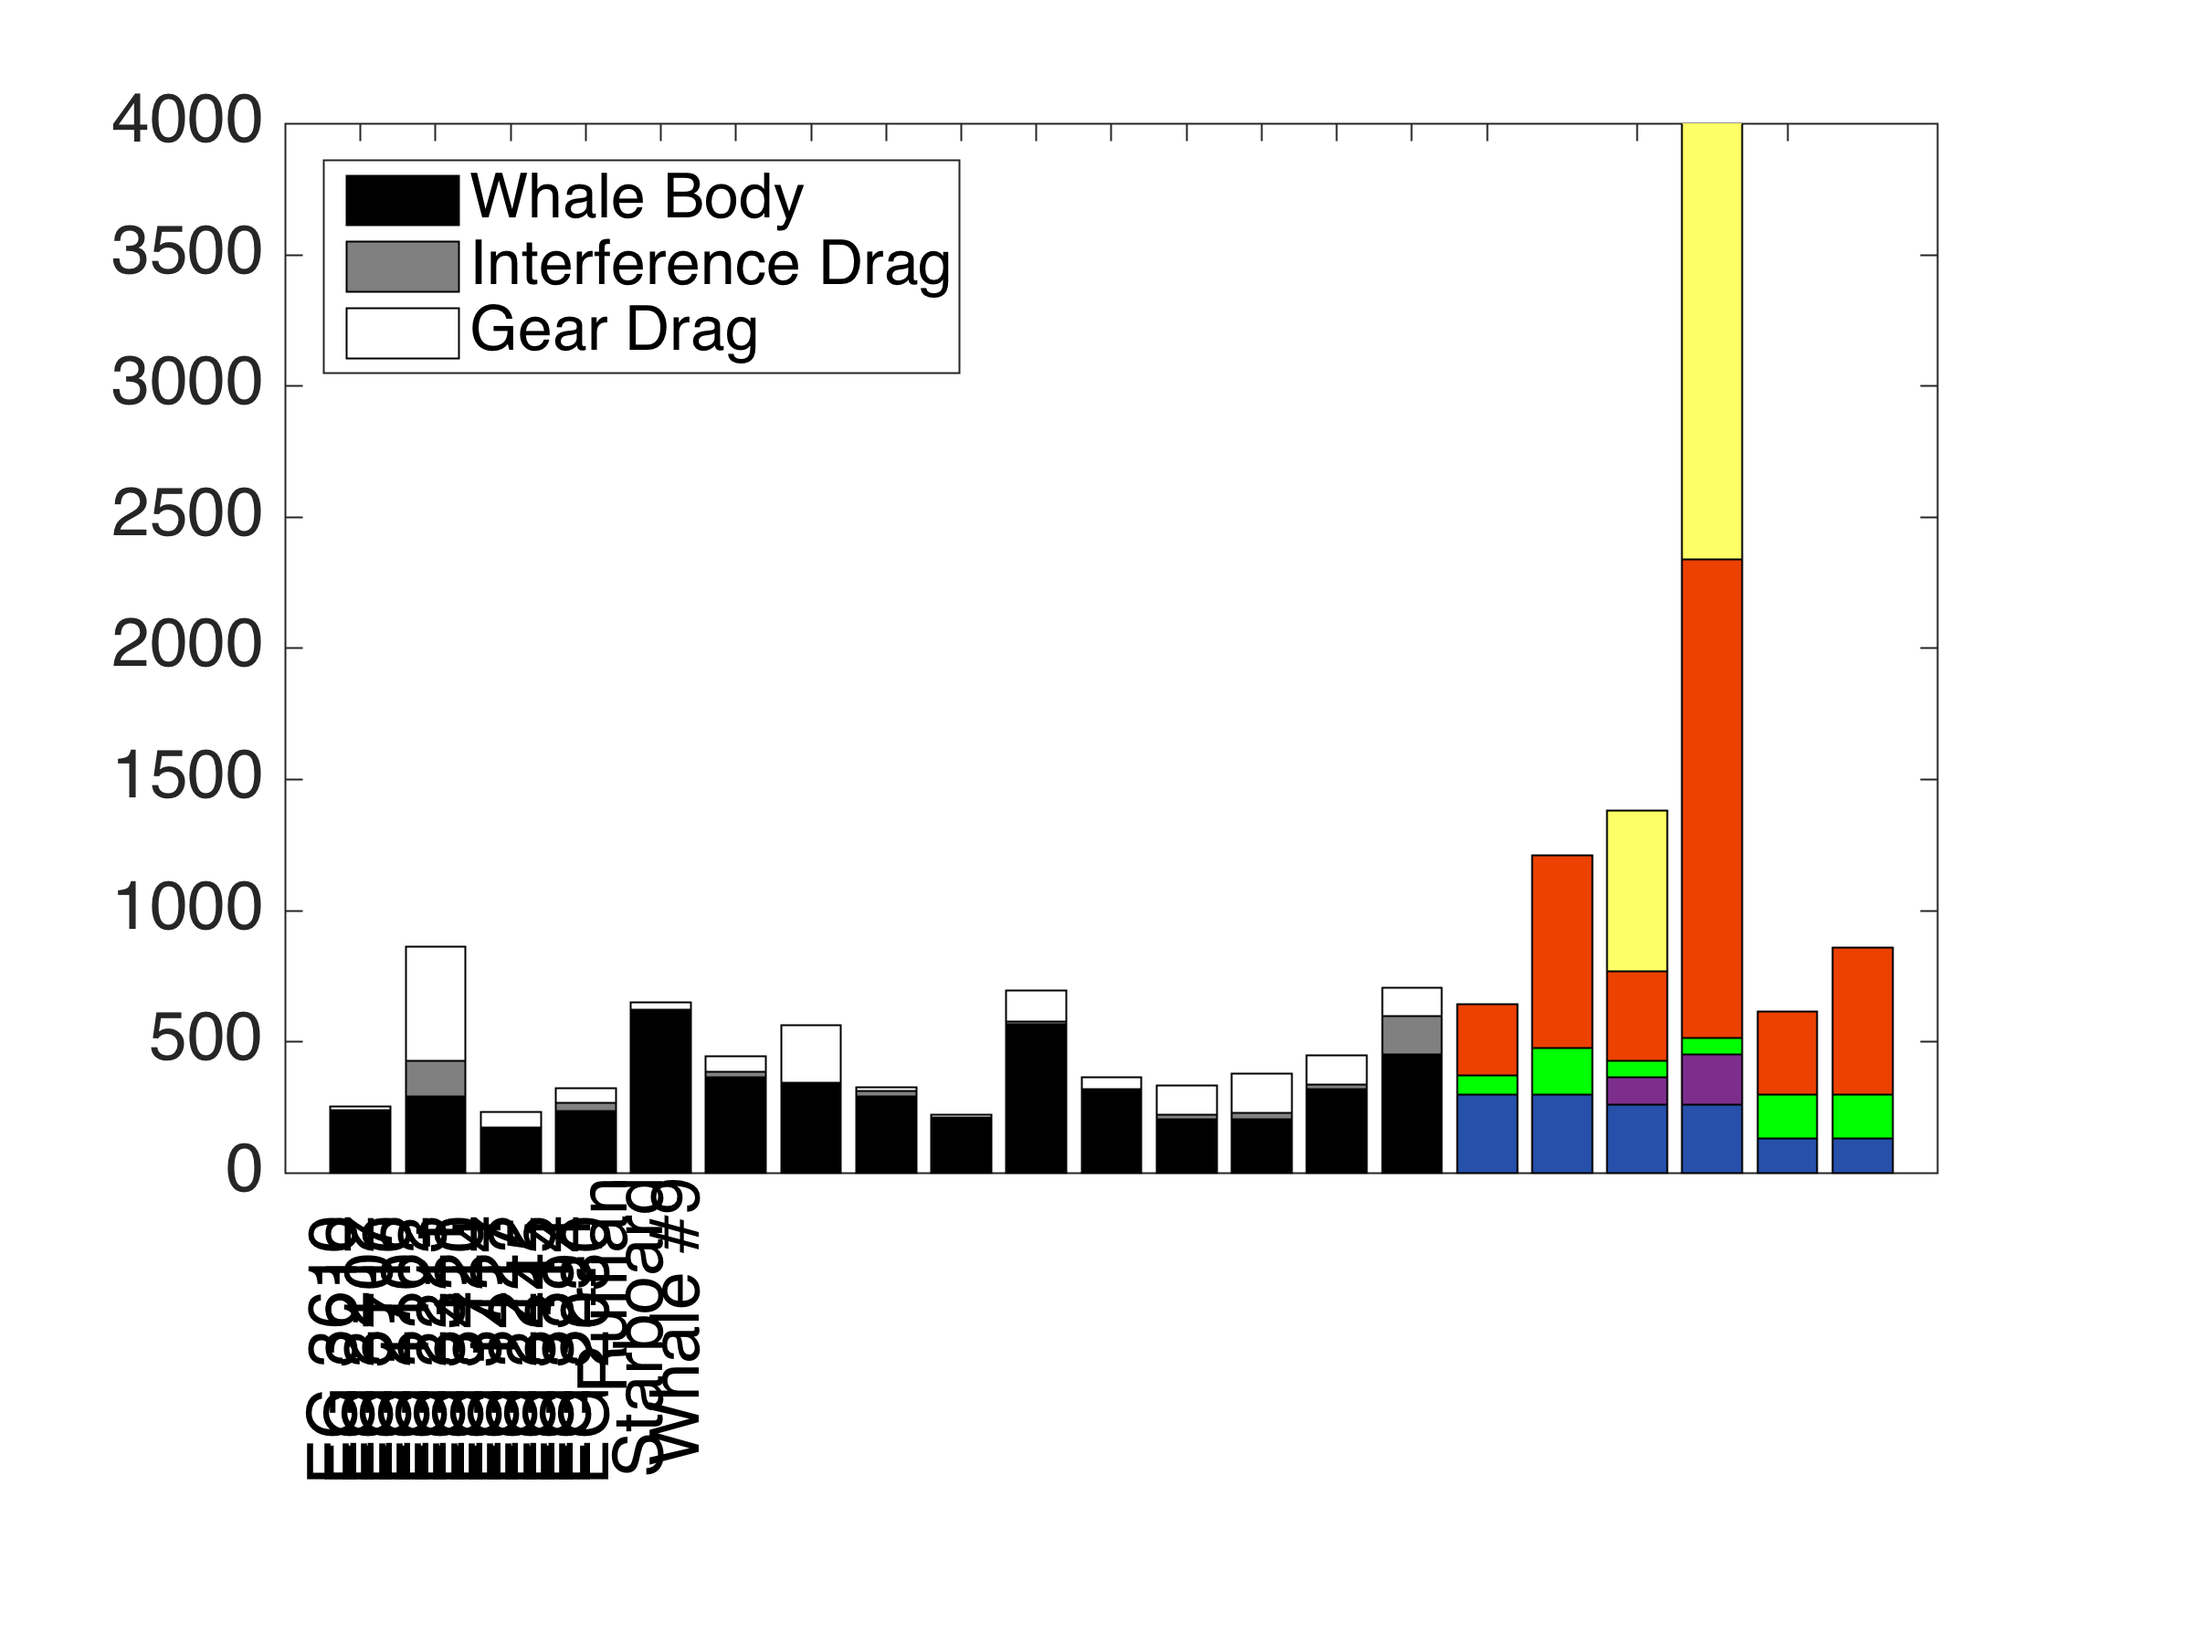
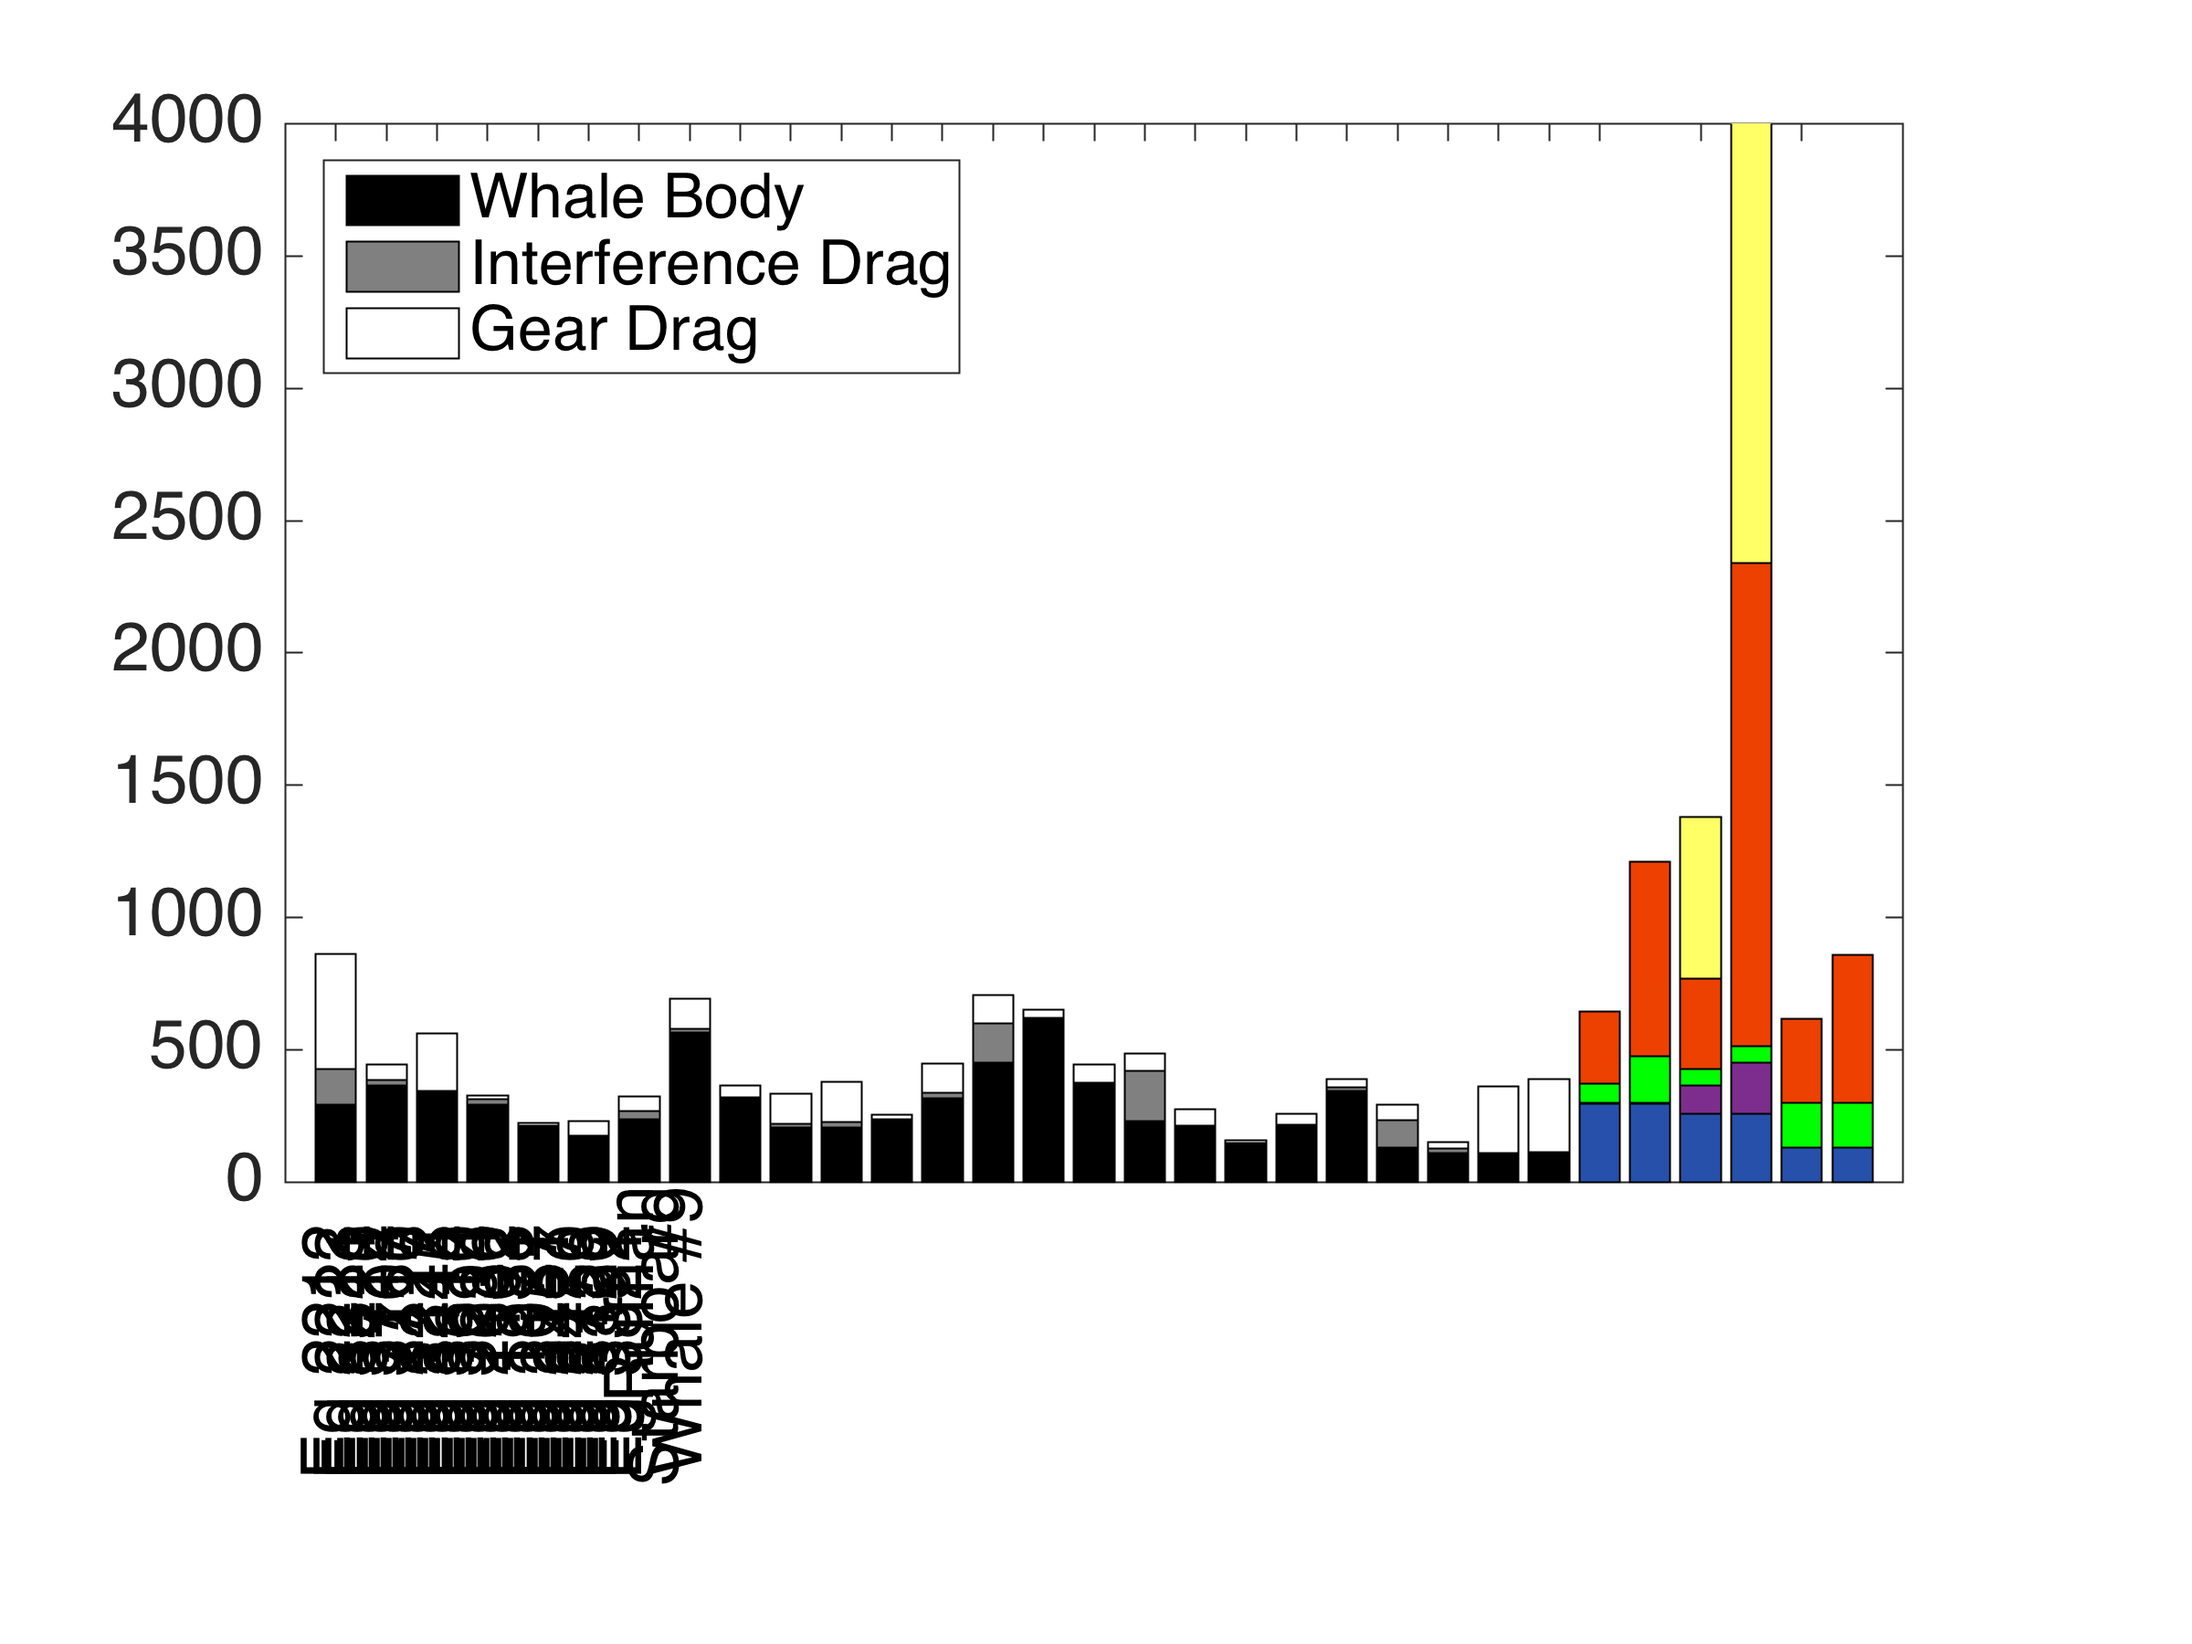
Add gear drag estimates for new right whale 3843 from 2018 BOF

diff --git a/DragTheoryComparison/CriticalEstimate.m b/DragTheoryComparison/CriticalEstimate.m
@@ -1,4 +1,4 @@
-function [critDur,Dcorr,Dtheor] = CriticalEstimate(whaleAge,whaleLength,gearLength,flt,gearDiam,attachment)
+function [critDur,Dcorr,Dtheor,Drag] = CriticalEstimate(whaleAge,whaleLength,gearLength,flt,gearDiam,attachment)
 % estimate minimum critical entanglement duration based on whale and gear
 % dimensions
 % inputs

diff --git a/DragTheoryComparison/OtherAllisonCases.m b/DragTheoryComparison/OtherAllisonCases.m
@@ -95,4 +95,3 @@ print('CritDurSensitivity2','-dpdf','-r300')
 %% values to report:
 estdiff = max(Crit') - min(Crit');
 [mean(estdiff) std(estdiff) min(estdiff) max(estdiff)]
-
